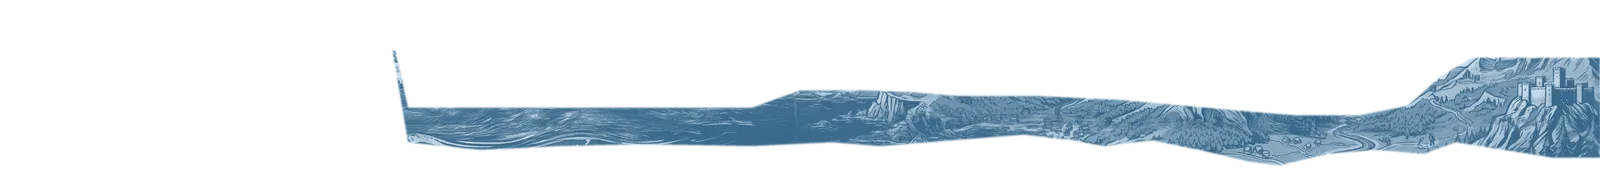
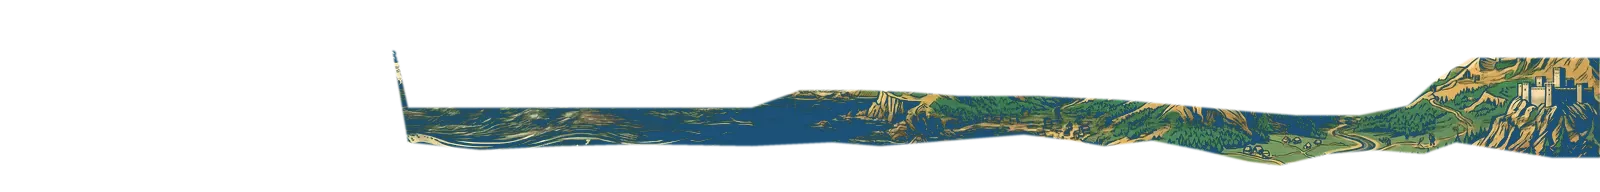
home + divider: headline spacing, title case, bold brand, colour in the landscape
The headline inherited line-height .95 from .display, which crowds it once the
lines wrap — "DREAMERS" and "THE BILLS!" sat right under the line above. Now
1.08, with a little more air between the two lines.

The English accent reads "Up We Go!", and the lede gives the movement's name
weight where it opens the sentence.

The dividers keep their landscape: the treatment is now tonal rather than a
flat cyanotype, so only the painting's darkest values — its sky and deep water
— take the page colour, and everything lighter stays as painted. Mountains,
snow, forest, the sunset and the wave crests come back in full colour while
the band still has no edge against the paper.

scripts/divider-tone.sh regenerates the separations for any page colour. The
blend is a plain Over of the masked original: handing the mask to -composite
makes ImageMagick blend in linear light, which comes out lighter than either
input — that cost me a round trip.

Changed region(s): [[0.25, 0.2812, 1.0, 0.875]]

diff --git a/src/AllAboardEarthPrototype.jsx b/src/AllAboardEarthPrototype.jsx
@@ -83,7 +83,7 @@ const copy = {
     hero_eyebrow: "ALL ABOARD EARTH · SIDE A · 33⅓ RPM",
     hero_line1: "THE EARTH NEEDS DREAMERS",
     hero_line2: "WHO GOT THE SKILLS TO PAY THE BILLS!",
-    hero_accent: "Up we go!",
+    hero_accent: "Up We Go!",
     hero_sub:
       "All Aboard Earth is a movement igniting the visionary willpower of humanity to foster ecological health through green career pathways, environmental edutainment and regenerative art.",
     marquee: "UP WE GO! · UP WE GO! · ",
@@ -618,6 +618,14 @@ function useMarkShrink(ref) {
   }, [ref]);
 }
 
+/** The lede opens by naming the movement, so the name carries weight there. */
+const BRAND = "All Aboard Earth";
+function withBrand(text) {
+  const i = text.indexOf(BRAND);
+  if (i < 0) return text;
+  return [text.slice(0, i), <b key="brand">{BRAND}</b>, text.slice(i + BRAND.length)];
+}
+
 export default function App() {
   // language choice is shared with the sub pages
   const [lang, setLang] = useState(() => {
@@ -816,12 +824,14 @@ export default function App() {
         }
 
         .hero-eyebrow{ position:relative; z-index:3; color:${T.marigold}; margin-bottom:14px; line-height:18px; min-height:18px; }
-        .hero-word{ position:relative; z-index:3; font-size:clamp(32px,6.4vw,86px); color:${T.cream}; max-width:16ch; margin:0 auto; }
-        .hero-word.l2{ font-size:clamp(24px,4.6vw,62px); color:${T.marigold}; max-width:22ch; }
+        .hero-word{ position:relative; z-index:3; font-size:clamp(32px,6.4vw,86px); color:${T.cream}; max-width:16ch; margin:0 auto;
+          line-height:1.08; }   /* .display sets .95, which crowds these when they wrap */
+        .hero-word.l2{ font-size:clamp(24px,4.6vw,62px); color:${T.marigold}; max-width:22ch; margin-top:.14em; }
         .hero-word span{ display:inline-block; animation:pop .8s cubic-bezier(.2,.9,.3,1.3) both; animation-delay:calc(var(--i, 0) * 70ms); }
         .hero-word.l2 span{ animation-delay:calc(150ms + var(--i, 0) * 70ms); }
         @keyframes pop{ from{ transform:translateY(60px) scale(.9); opacity:0; } to{ transform:none; opacity:1; } }
         .hero-sub{ position:relative; z-index:3; max-width:580px; margin:16px auto 60px; font-size:17px; line-height:1.55; color:${T.cream}dd; }
+        .hero-sub b{ font-weight:700; color:${T.cream}; }
 
         /* marquee */
         .marquee{ background:${T.marigold}; color:${T.pineDeep}; overflow:hidden; transform:rotate(-1.5deg) scale(1.02); padding:10px 0; height:56px; }
@@ -1241,7 +1251,7 @@ export default function App() {
         <KineticLine text={c.hero_line1} />
         <KineticLine text={c.hero_line2} className="l2" />
         <div className="hero-accent">{c.hero_accent}</div>
-        <p className="hero-sub">{c.hero_sub}</p>
+        <p className="hero-sub">{withBrand(c.hero_sub)}</p>
       </header>
 
       <div className="marquee">
